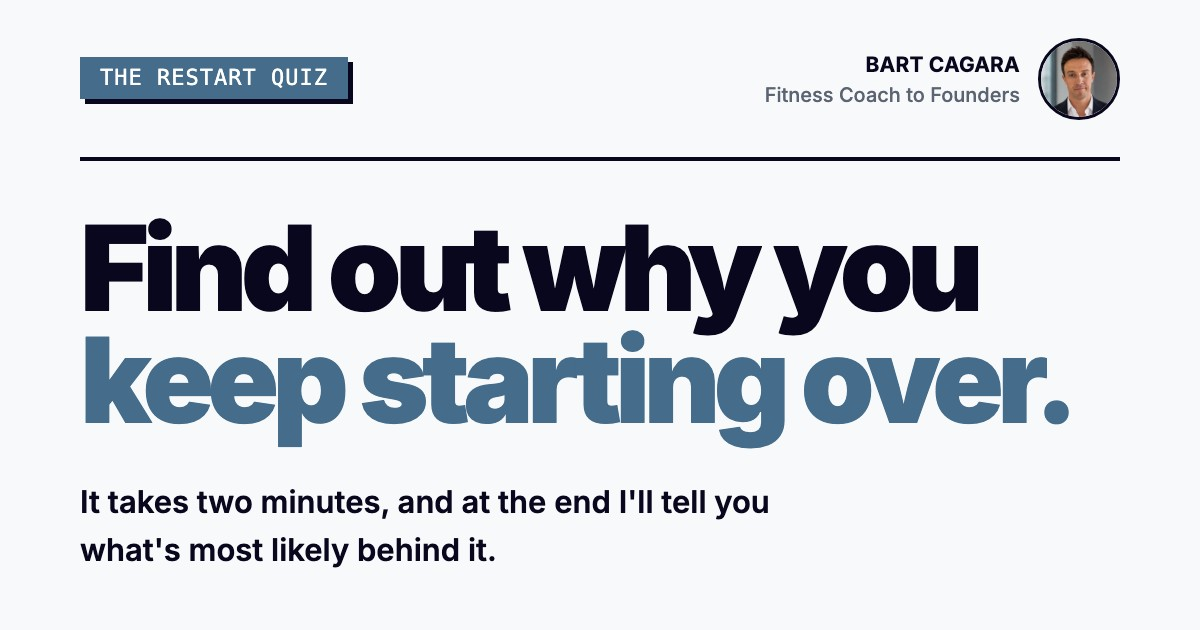
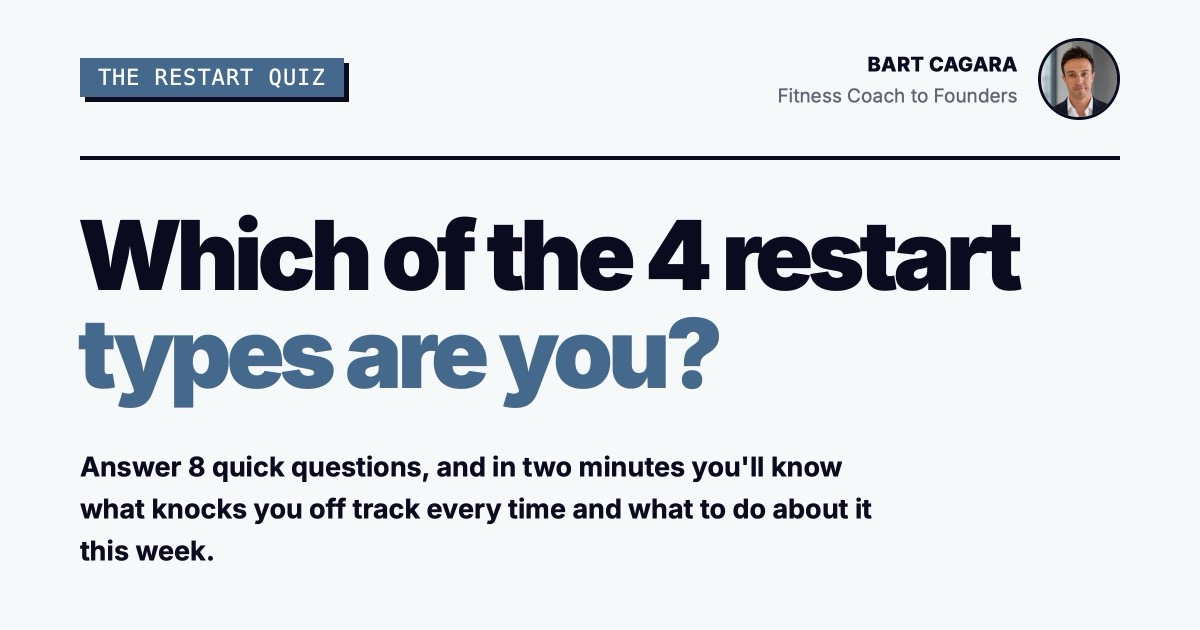
/quiz start screen: 'Which of the 4 restart types are you?' and the new line; share card and alt text to match (Bart, 23 Nov)

diff --git a/src/data/quiz.ts b/src/data/quiz.ts
@@ -315,9 +315,9 @@ export const BOOK_BUTTON = "Book Restart Audit";
 
 export const COPY = {
   headerLabel: "The Restart Quiz",
-  startHeadline: "Find out why you keep starting over.",
+  startHeadline: "Which of the 4 restart types are you?",
   startLine:
-    "It takes two minutes, and at the end I'll tell you what's most likely behind it.",
+    "Answer 8 quick questions, and in two minutes you'll know what knocks you off track every time and what to do about it this week.",
   startButton: "Start",
   back: "Back",
   resultLabel: "What kills your restarts",

diff --git a/src/app/(landing)/quiz/page.tsx b/src/app/(landing)/quiz/page.tsx
@@ -29,7 +29,7 @@ export const metadata: Metadata = {
                 url: "/images/og-quiz.jpg",
                 width: 1200,
                 height: 630,
-                alt: "The Restart Quiz: find out why you keep starting over. It takes two minutes, and at the end I'll tell you what's most likely behind it."
+                alt: "The Restart Quiz: which of the 4 restart types are you? Answer 8 quick questions, and in two minutes you'll know what knocks you off track every time and what to do about it this week."
             }
         ]
     },
